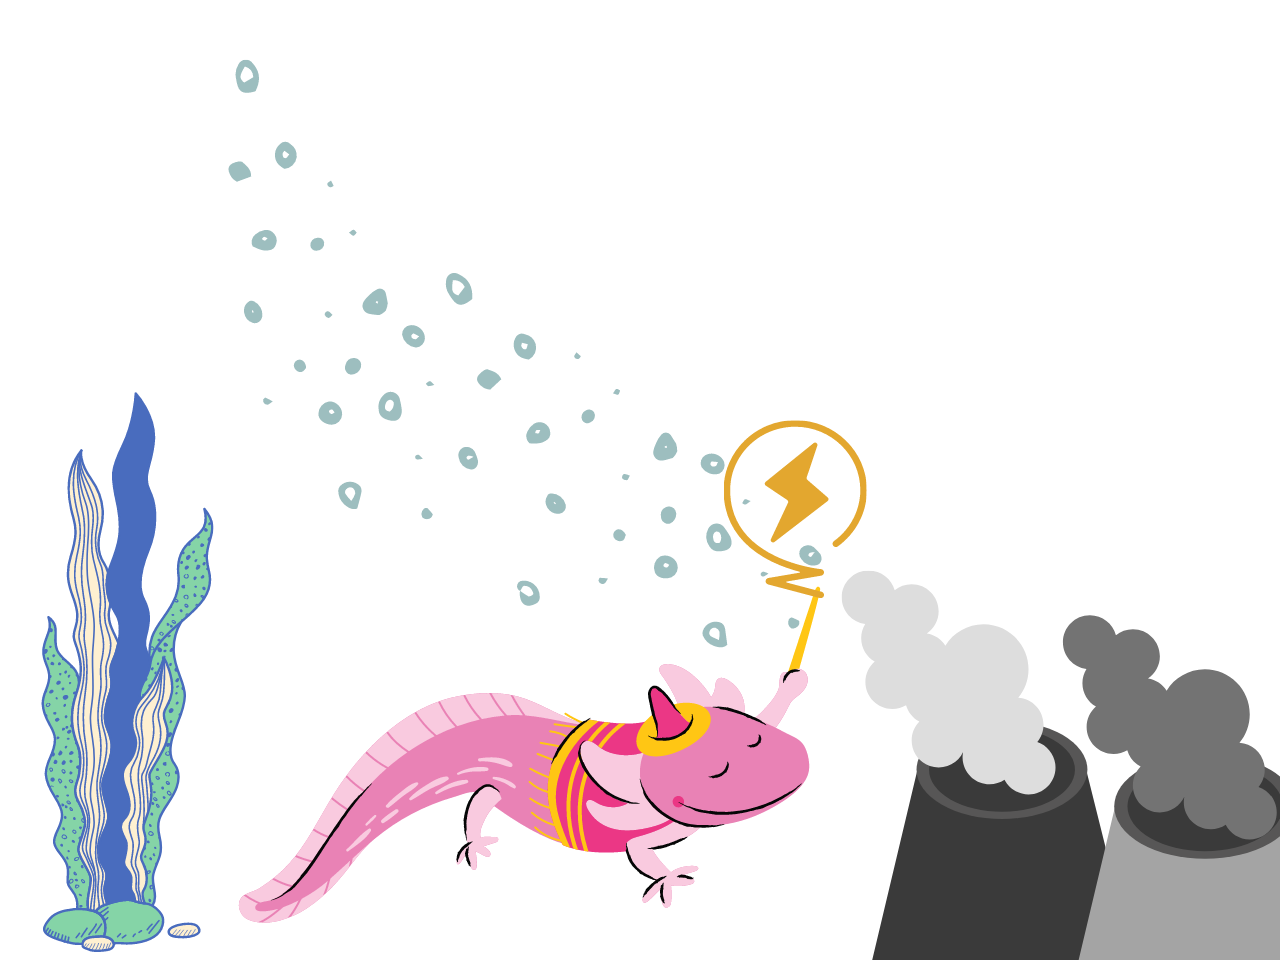
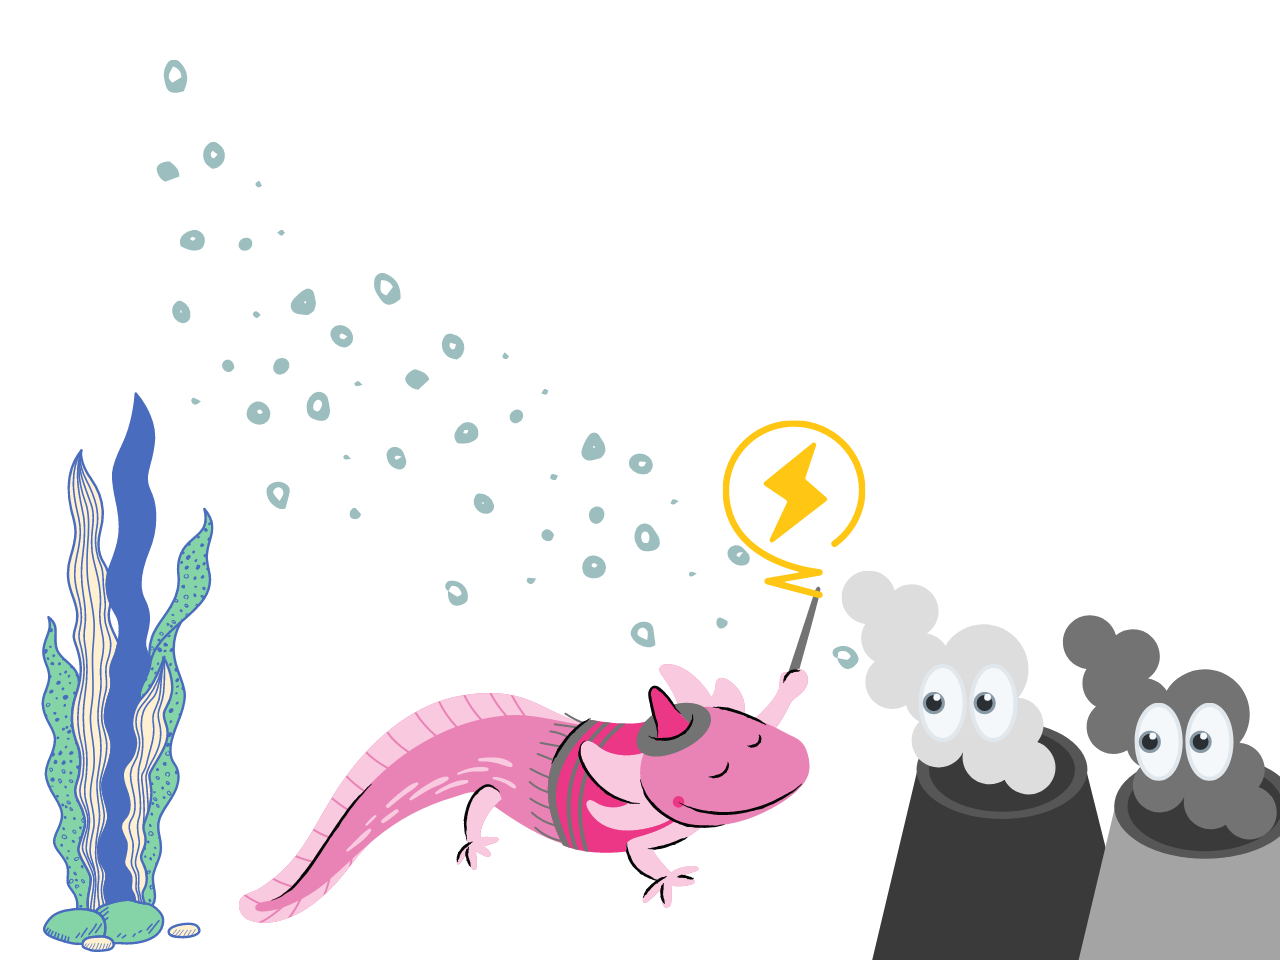
Updated cover image and auto mode ai

diff --git a/TermProjectGame.py b/TermProjectGame.py
@@ -1,3 +1,4 @@
+# Game inspired by https://www.google.com/doodles/halloween-2020
 import imutils
 import cv2
 import numpy as np
@@ -162,6 +163,7 @@ def findShortestPath(app, startRow, startCol, endRow, endCol, rows, cols, walls,
     visitedCells = set()
     unvisitedNeighborsQueue = [(startRow, startCol)]
     cellDistance = [[0]*app.cols for i in range(app.rows)]
+    cellDistance[startRow][startCol] = -99
     found = False
     foundDist = 0
     while len(unvisitedNeighborsQueue) != 0:
@@ -178,12 +180,14 @@ def findShortestPath(app, startRow, startCol, endRow, endCol, rows, cols, walls,
             newCol = col - dCol
             if 0 <= newRow < rows and 0 <= newCol < cols and (newRow, newCol) not in visitedCells and (newRow, newCol) not in unvisitedNeighborsQueue and not walls[newRow][newCol]:
                 if dists:
-                    cellDistance[newRow][newCol] = cellDistance[row][col] + 1
+                    if cellDistance[row][col] == -89:
+                        cellDistance[newRow][newCol] = cellDistance[row][col] + 101
+                    else:
+                        cellDistance[newRow][newCol] = cellDistance[row][col] + 1
                     app.cellDistances[newRow][newCol] += cellDistance[newRow][newCol]
                 unvisitedNeighborsQueue.append((newRow, newCol))
                 if not found:
                     cellMap[(newRow, newCol)] = cellMap.get((newRow, newCol), (row, col))
-
     if found:
         result = (endRow, endCol)
         path = []
@@ -246,35 +250,37 @@ def moveEnemy(app, enemy):
                 app.gameOver = True
 
 # Moves the player towards hand, avoiding walls
+# In auto mode, moves away from enemies while maintaining line of sight
 def movePlayer(app, x, y):
     cellWidth = (app.width-app.spellSize) / app.cols
     cellHeight = app.height / app.rows
     startRow, startCol = getCell(app, app.player.x, app.player.y)
     if app.autoMode:
-        if app.curMoveRow == startRow and app.curMoveCol == startCol:
-            maxDist = -1
-            maxRow = -1
-            maxCol = -1
-            for dRow in range(-10, 11):
-                for dCol in range(-10, 11):
-                    #if dRow == 0 and dCol == 0:
-                    #    continue
-                    endRow = startRow + dRow
-                    endCol = startCol + dCol
-                    if not 5 <= endRow < app.rows - 5 or not 5 <= endCol < app.cols - 5 or app.walls[endRow][endCol]:
-                        continue
-                    for enemy in app.enemies:
-                        cy = app.player.y + dRow*cellHeight
-                        cx = app.player.x + dCol*cellWidth
-                        if not isThroughWall(app, cx, cy, enemy.x, enemy.y):
-                            totalDist += 50
-                    totalDist = app.cellDistances[endRow][endCol]
-                    if totalDist > maxDist:
-                        maxDist = totalDist
-                        maxRow = endRow
-                        maxCol = endCol
-            app.curMoveRow = maxRow
-            app.curMoveCol = maxCol
+        #if app.curMoveRow == startRow and app.curMoveCol == startCol:
+        maxDist = -1
+        maxRow = -1
+        maxCol = -1
+        for dRow in range(-10, 11, 2):
+            for dCol in range(-10, 11, 2):
+                #if dRow == 0 and dCol == 0:
+                #    continue
+                totalDist = 0
+                endRow = startRow + dRow
+                endCol = startCol + dCol
+                if not 2 <= endRow < app.rows - 2 or not 2 <= endCol < app.cols - 2 or app.walls[endRow][endCol]:
+                    continue
+                for enemy in app.enemies:
+                    cy = app.player.y + dRow*cellHeight
+                    cx = app.player.x + dCol*cellWidth
+                    if isThroughWall(app, cx, cy, enemy.x, enemy.y) == (-1, -1) and app.cellDistances[endRow][endCol] > 0:
+                        app.cellDistances[endRow][endCol] *= 2
+                totalDist += app.cellDistances[endRow][endCol]
+                if totalDist > maxDist:
+                    maxDist = totalDist
+                    maxRow = endRow
+                    maxCol = endCol
+        app.curMoveRow = maxRow
+        app.curMoveCol = maxCol
         path = findShortestPath(app, startRow, startCol, app.curMoveRow, app.curMoveCol, app.rows, app.cols, app.walls, False)
     else:
         endRow, endCol = getCell(app, x, y)
@@ -325,8 +331,8 @@ def countNeighbors(app, row, col):
 # Makes natural looking walls with cellular automata model
 def makeWalls(app, empty, passes):
     app.walls = [[False]*app.cols for i in range(app.rows)]
-    for row in range(1, app.rows-1):
-        for col in range(1, app.cols-1):
+    for row in range(3, app.rows-3):
+        for col in range(3, app.cols-3):
             if random.randint(1, 100) >= empty:
                 app.walls[row][col] = True
     for i in range(passes):
@@ -353,7 +359,7 @@ def appStarted(app):
     app.score = 0
     app.spellSize = 600
     app.spellColor = {"—":"DeepPink2", "|":"cyan", "u":"spring green", "n":"magenta3", "none":"pink", "⚡":"yellow", "♥":"red"}
-    makeWalls(app, 40, 20)
+    makeWalls(app,45, 20)
     app.countdown = False
     app.gameStarted = False
     app.gameOver = False
@@ -505,27 +511,7 @@ def predictGesture(app):
     app.color = app.spellColor[gesture]
     return gesture
 
-# Function for displaying/testing line of sight
-def isThroughWallDisplay(app, x1, y1, x2, y2):
-    dx = int(x2-x1)
-    dy = int(y2-y1)
-    if dx == 0:
-        dx += 1
-    if dy == 0:
-        dy += 1
-    slope = dy/dx
-    for x in range(0, dx, int(abs(dx)/dx)):
-        y = x*slope + y1
-        row, col = getCell(app, x+x1, y)
-        if app.walls[row][col]:
-            return x+x1, y
-    for y in range(0, dy, int(abs(dy)/dy)):
-        x = y*(1/slope) + x1
-        row, col = getCell(app, x, y+y1)
-        if app.walls[row][col]:
-            return x, y+y1
-    return -1, -1
-
+# Function for testing line of sight
 def isThroughWall(app, x1, y1, x2, y2):
     dx = int(x2-x1)
     dy = int(y2-y1)
@@ -537,14 +523,14 @@ def isThroughWall(app, x1, y1, x2, y2):
     for x in range(0, dx, int(abs(dx)/dx)):
         y = x*slope + y1
         row, col = getCell(app, x+x1, y)
-        if app.walls[row][col]:
-            return True
+        if 0 <= row < app.rows and 0 <= col < app.cols and app.walls[row][col]:
+            return x+x1, y
     for y in range(0, dy, int(abs(dy)/dy)):
         x = y*(1/slope) + x1
         row, col = getCell(app, x, y+y1)
-        if app.walls[row][col]:
-            return True
-    return False
+        if 0 <= row < app.rows and 0 <= col < app.cols and app.walls[row][col]:
+            return x, y+y1
+    return -1, -1
 
 # Makes enemies take damage, heals player, or starts game based on the gesture
 def performSpells(app, gesture):
@@ -561,7 +547,7 @@ def performSpells(app, gesture):
         if enemy.gestures[0] == gesture or app.lightning:
             if gesture == "♥":
                 app.player.healPlayer(1)
-            if gesture != "⚡" and isThroughWall(app, app.player.x, app.player.y, enemy.x, enemy.y):
+            if gesture != "⚡" and isThroughWall(app, app.player.x, app.player.y, enemy.x, enemy.y) != (-1, -1):
                 continue
             enemy.damageEnemy(1)
             app.score += 50
@@ -719,7 +705,7 @@ def drawEnemies(app, canvas):
             sprite = app.lightningMotion[app.smCounter % len(app.lightningMotion)]
             canvas.create_image(enemy.x, enemy.y-75, image=ImageTk.PhotoImage(sprite))
         if app.testingMode:
-            blockingX, blockingY = isThroughWallDisplay(app, app.player.x, app.player.y, enemy.x, enemy.y)
+            blockingX, blockingY = isThroughWall(app, app.player.x, app.player.y, enemy.x, enemy.y)
             if blockingX == -1 and blockingY == -1:
                 canvas.create_line(app.player.x, app.player.y, enemy.x, enemy.y, fill = "green", width = 4)
             else:
@@ -735,7 +721,7 @@ def drawPlayer(app, canvas):
         sprite = app.curMotion[app.motionCounter % len(app.curMotion)]
     if app.player.direction == -1:
             sprite = sprite.transpose(Image.FLIP_LEFT_RIGHT)
-    #canvas.create_oval(app.player.x-app.player.radius, app.player.y-app.player.radius, app.player.x+app.player.radius, app.player.y+app.player.radius, fill = app.player.color)
+    #canvas.create_oval(app.player.x-app.player.radius, app.player.y-app.player.radius, app.player.x+app.player.radius, app.player.y+app.player.radius, fill = "")#app.player.color)
     canvas.create_image(app.player.x-5, app.player.y, image=ImageTk.PhotoImage(sprite))
 
 # Draws the main menu
